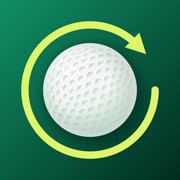
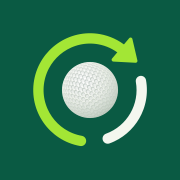
Publish web/ from golfapp@74991d7

diff --git a/index.html b/index.html
@@ -18,15 +18,15 @@
 <meta property="og:image:height" content="630">
 <meta property="og:image:alt" content="MultiSwing — dual camera golf swing replay for iPhone and iPad">
 
-<link rel="icon" type="image/png" href="icon.png">
+<link rel="icon" href="favicon.ico" sizes="16x16 32x32 48x48">
 <link rel="apple-touch-icon" href="icon.png">
 
 <link rel="canonical" href="https://multiswinggolf.com/">
 <meta property="og:url" content="https://multiswinggolf.com/">
 
-<!-- og.png is generated, not designed — the wordmark and one line of copy on
-     the site's own background. Replace it with something made if the app ever
-     earns a real launch graphic.
+<!-- og.png is generated, not designed — the logo, the name and one line of
+     copy on the site's own background, rendered from tools/icon/og.html by
+     tools/icon/build.sh. Replace it if the app ever earns a real launch graphic.
      TODO: swap the two hero buttons to the App Store link when it exists. -->
 
 <link rel="preconnect" href="https://fonts.googleapis.com">
@@ -665,7 +665,7 @@
 <header class="topbar">
   <div class="shell topbar-in">
     <div class="wordmark">
[2 lines of base64/hex data omitted]
       MultiSwing<span class="suffix">— Dual Camera Golf</span>
     </div>
     <nav>
@@ -692,12 +692,16 @@
         </p>
         <ul class="caps">
           <li>
-            <svg class="replay" viewBox="0 0 20 20" aria-hidden="true">
-              <!-- The app icon's loop: tail at 3 o'clock, clockwise round to a
-                   solid head at 1 o'clock, gap on the right. -->
-              <path d="M17 10A7 7 0 1 1 13.5 3.94" fill="none" stroke="currentColor"
-                    stroke-width="1.8" stroke-linecap="round"/>
-              <path d="M16.44 5.64L11.08 5.43L13.58 1.1z" fill="currentColor"/>
+            <svg class="replay" viewBox="0 0 100 100" aria-hidden="true">
+              <!-- The logo's loop: one arc clockwise round to the arrowhead at
+                   1 o'clock, and a second, fainter arc on the right — two
+                   angles, one replay. Geometry copied from tools/icon/logo. -->
+              <path d="M43.9 84.5A35 35 0 1 1 72.5 23.2" fill="none" stroke="currentColor"
+                    stroke-width="9" stroke-linecap="round"/>
+              <polygon points="80.9,30.3 77.5,15.7 65.9,29.5" fill="currentColor"
+                       stroke="currentColor" stroke-width="3" stroke-linejoin="round"/>
+              <path d="M84.5 43.9A35 35 0 0 1 62 82.9" fill="none" stroke="currentColor"
+                    stroke-width="9" stroke-linecap="round" opacity="0.55"/>
             </svg>
             <div><b>Instant replay</b><span>No button, every swing</span></div>
           </li>

diff --git a/privacy.html b/privacy.html
@@ -14,7 +14,7 @@
 <meta property="og:site_name" content="MultiSwing">
 <meta property="og:image" content="https://multiswinggolf.com/og.png">
 
-<link rel="icon" type="image/png" href="icon.png">
+<link rel="icon" href="favicon.ico" sizes="16x16 32x32 48x48">
 <link rel="apple-touch-icon" href="icon.png">
 
 <link rel="canonical" href="https://multiswinggolf.com/privacy.html">
@@ -138,7 +138,7 @@
 
 <header class="topbar">
   <div class="shell topbar-in">
-    <img src="icon.png" alt="" width="26" height="26">
+    <img src="icon-flat.png" alt="" width="26" height="26">
     <a href="index.html">MultiSwing</a>
   </div>
 </header>

diff --git a/entitlement/index.html b/entitlement/index.html
@@ -11,7 +11,7 @@
      search, and deliberately not listed in sitemap.xml. -->
 <meta name="robots" content="noindex, nofollow">
 
-<link rel="icon" type="image/png" href="../icon.png">
+<link rel="icon" href="../favicon.ico" sizes="16x16 32x32 48x48">
 
 <style>
   :root {
